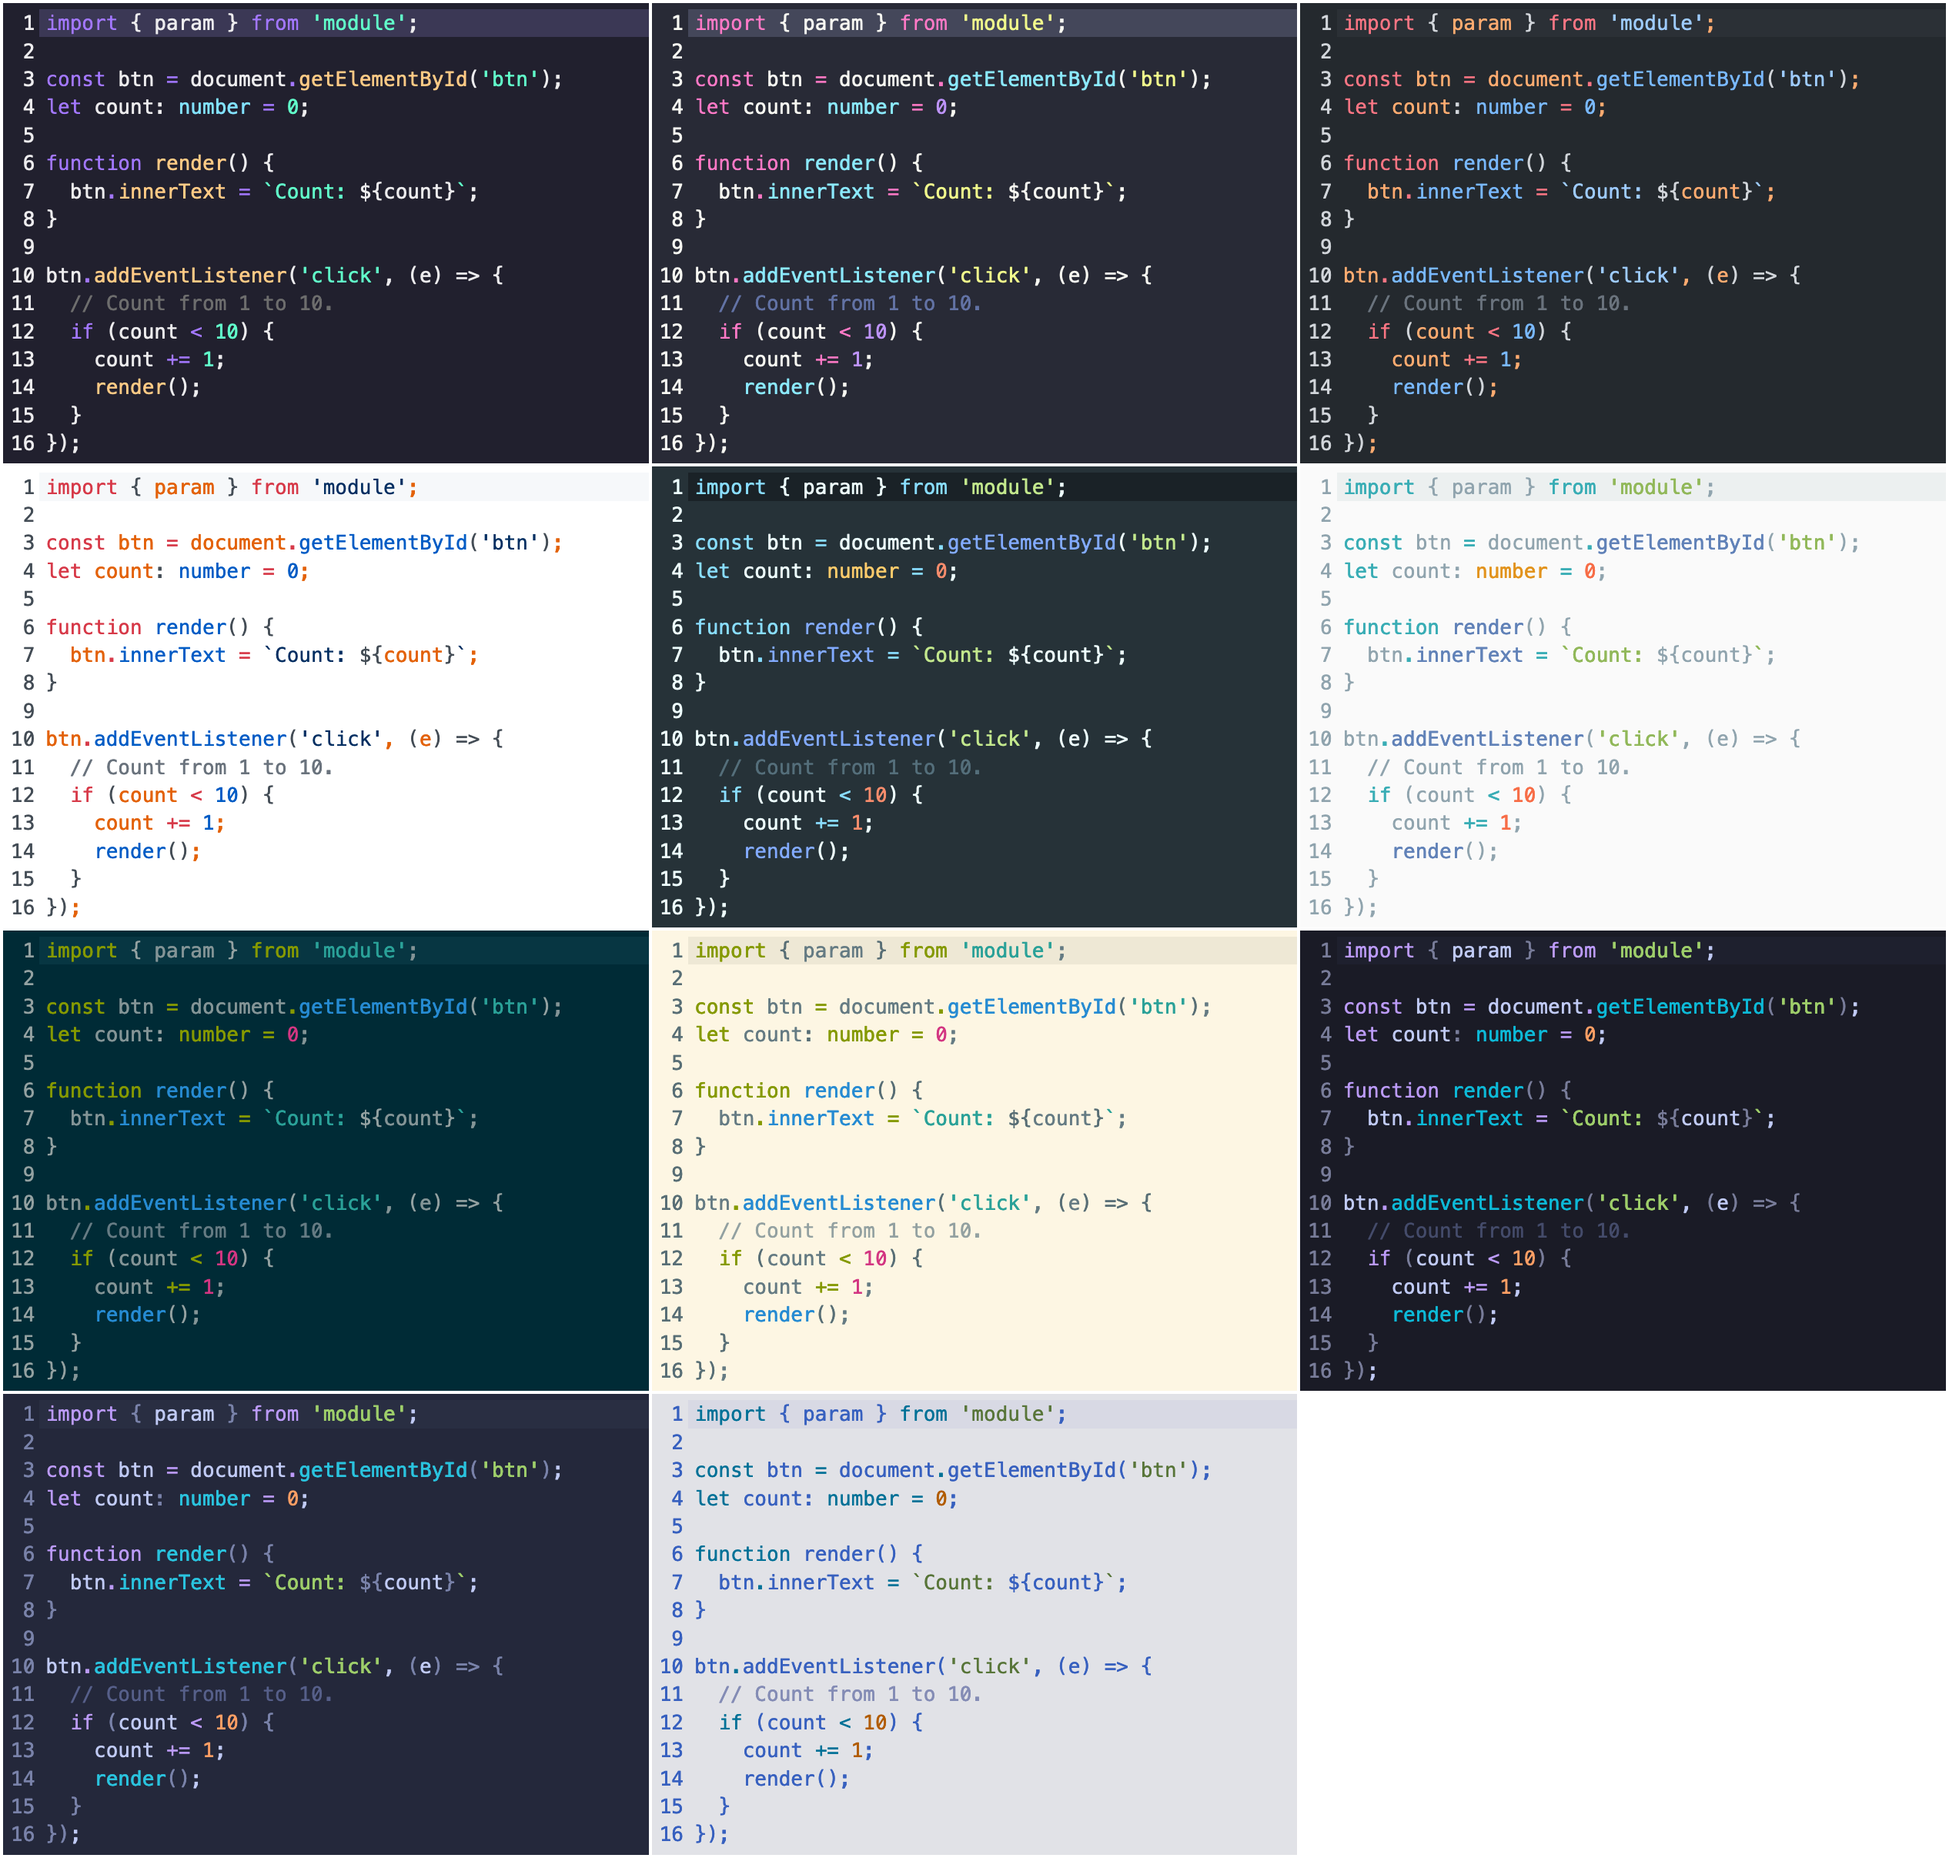
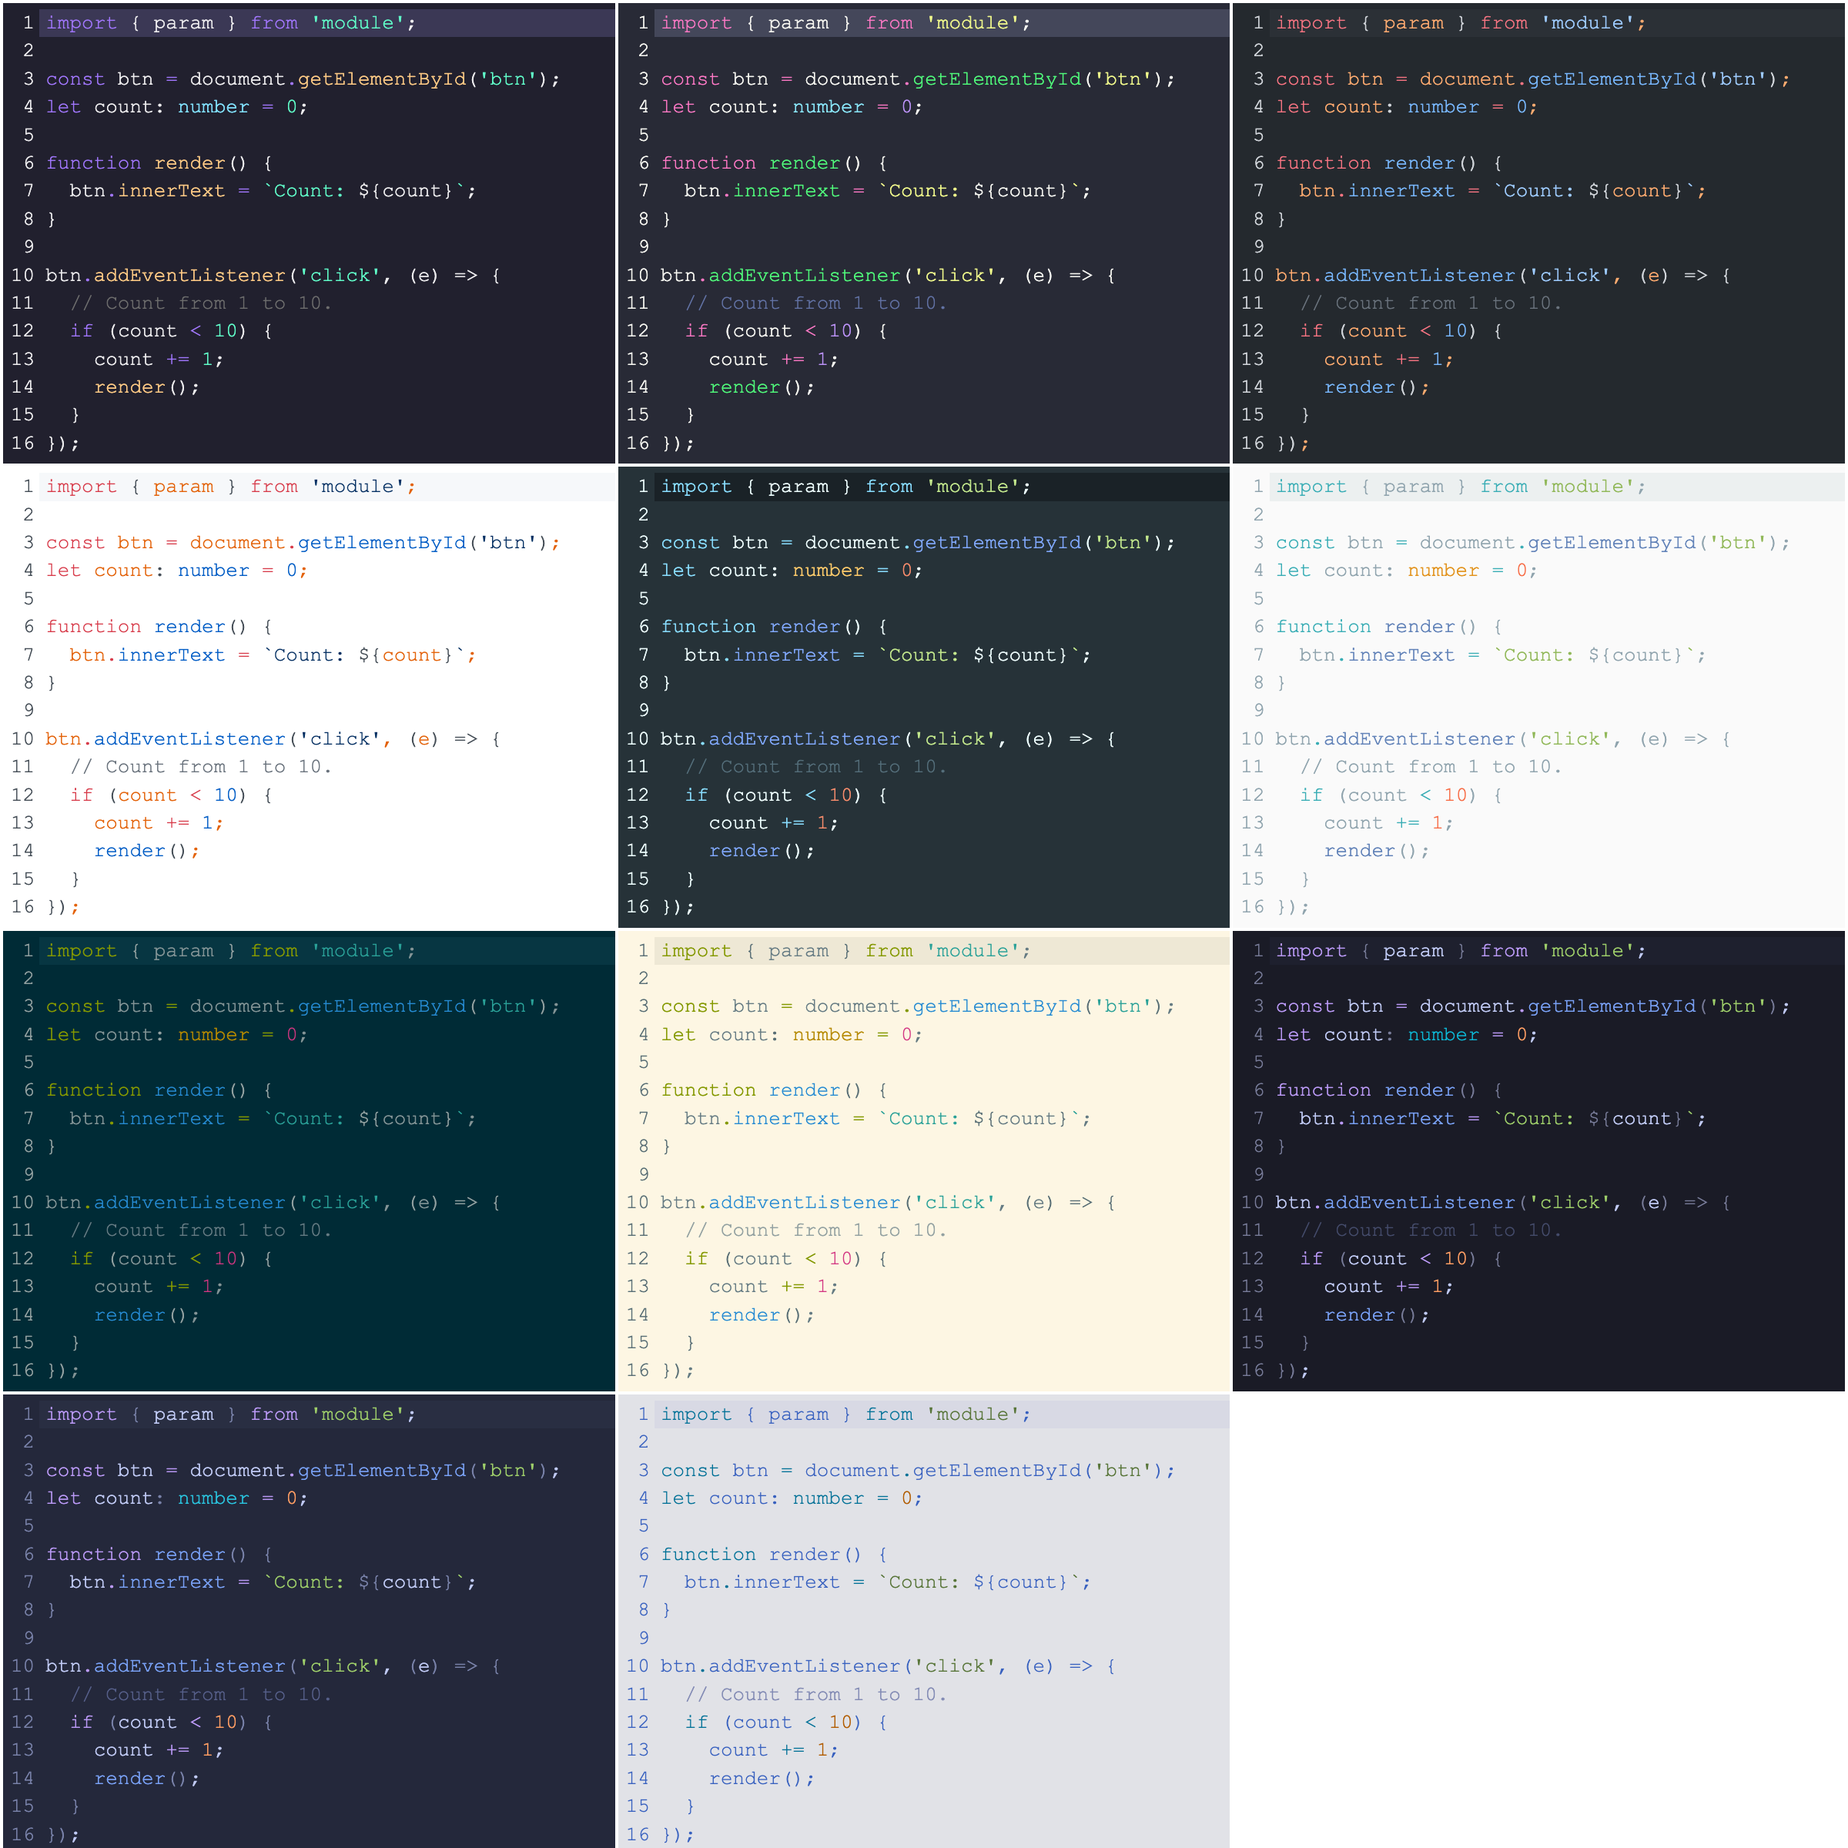
update mapping

diff --git a/theme/dracula.ts b/theme/dracula.ts
@@ -18,7 +18,7 @@ export const config = {
   storage: '#FF79C6',
   variable: '#F8F8F2',
   parameter: '#F8F8F2',
-  function: '#8BE9FD',
+  function: '#50FA7B',
   string: '#F1FA8C',
   constant: '#BD93F9',
   type: '#8BE9FD',

diff --git a/theme/tokyo-night-storm.ts b/theme/tokyo-night-storm.ts
@@ -18,7 +18,7 @@ export const config = {
   storage: '#bb9af7',
   variable: '#c0caf5',
   parameter: '#c0caf5',
-  function: '#2ac3de',
+  function: '#7aa2f7',
   string: '#9ece6a',
   constant: '#bb9af7',
   type: '#2ac3de',

diff --git a/theme/tokyo-night.ts b/theme/tokyo-night.ts
@@ -18,7 +18,7 @@ export const config = {
   storage: '#bb9af7',
   variable: '#c0caf5',
   parameter: '#c0caf5',
-  function: '#0db9d7',
+  function: '#7aa2f7',
   string: '#9ece6a',
   constant: '#bb9af7',
   type: '#0db9d7',

diff --git a/theme/solarized-dark.ts b/theme/solarized-dark.ts
@@ -21,7 +21,7 @@ export const config = {
   function: '#268BD2',
   string: '#2AA198',
   constant: '#CB4B16',
-  type: '#859900',
+  type: '#b58900',
   class: '#CB4B16',
   number: '#D33682',
   comment: '#657B83',

diff --git a/theme/solarized-light.ts b/theme/solarized-light.ts
@@ -21,7 +21,7 @@ export const config = {
   function: '#268BD2',
   string: '#2AA198',
   constant: '#CB4B16',
-  type: '#859900',
+  type: '#b58900',
   class: '#268BD2',
   number: '#D33682',
   comment: '#93A1A1',

diff --git a/main.go b/main.go
@@ -3,12 +3,12 @@ package main
 import (
 	"archive/zip"
 	"bytes"
+	"encoding/json"
 	"fmt"
+	"github.com/tinode/jsonco"
 	"io"
 	"io/ioutil"
 	"log"
-	"encoding/json"
-	"github.com/tinode/jsonco"
 	"net/http"
 	"os"
 	"reflect"
@@ -270,10 +270,10 @@ func makeTemplateParams(theme Theme, content []byte) TemplateParams {
 		Storage:   find(data, "storage", "keyword"),
 		Variable:  find(data, "variable", "variable.parameter", "variable.other", "variable.language", "foreground"),
 		Parameter: find(data, "variable.parameter", "variable.other", "variable"),
-		Function:  find(data, "support.function", "support", "entity.name.function", "entity.name"),
+		Function:  find(data, "entity.name.function", "support.function", "entity.name", "support"),
 		String:    find(data, "string"),
 		Constant:  find(data, "constant", "constant.character", "constant.keyword"),
-		Type:      find(data, "support.type", "support", "entity.name.class"),
+		Type:      find(data, "entity.name.type", "entity.name.class", "support.type", "support"),
 		Class:     find(data, "entity.name.class", "entity.name"),
 		Number:    find(data, "constant.numeric", "constant"),
 		Comment:   find(data, "comment"),
